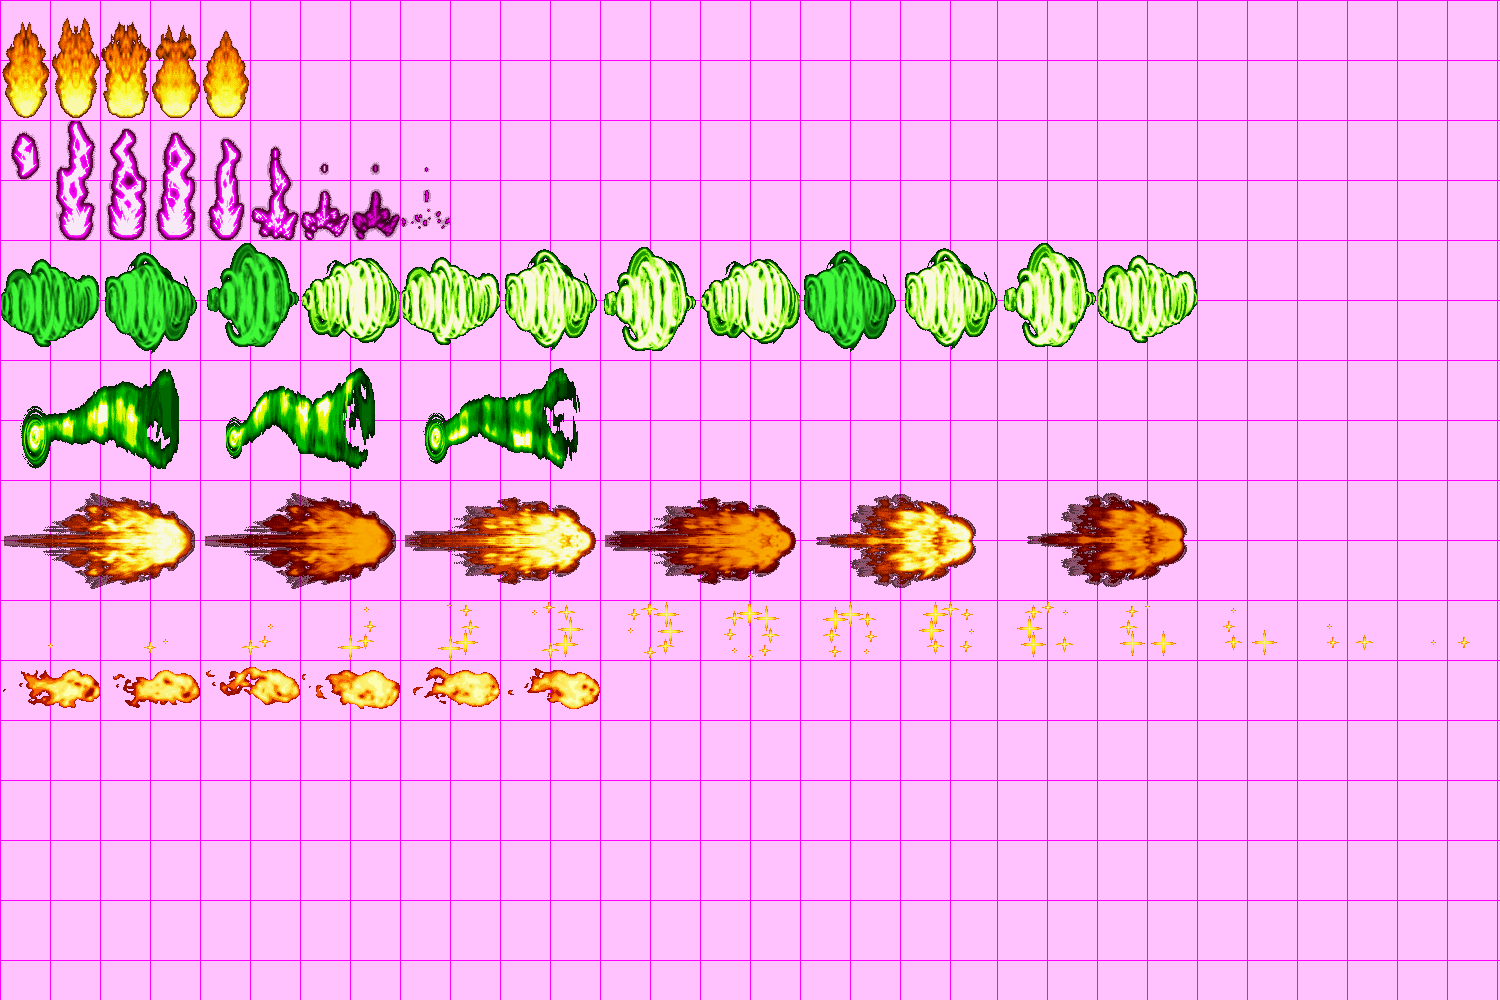
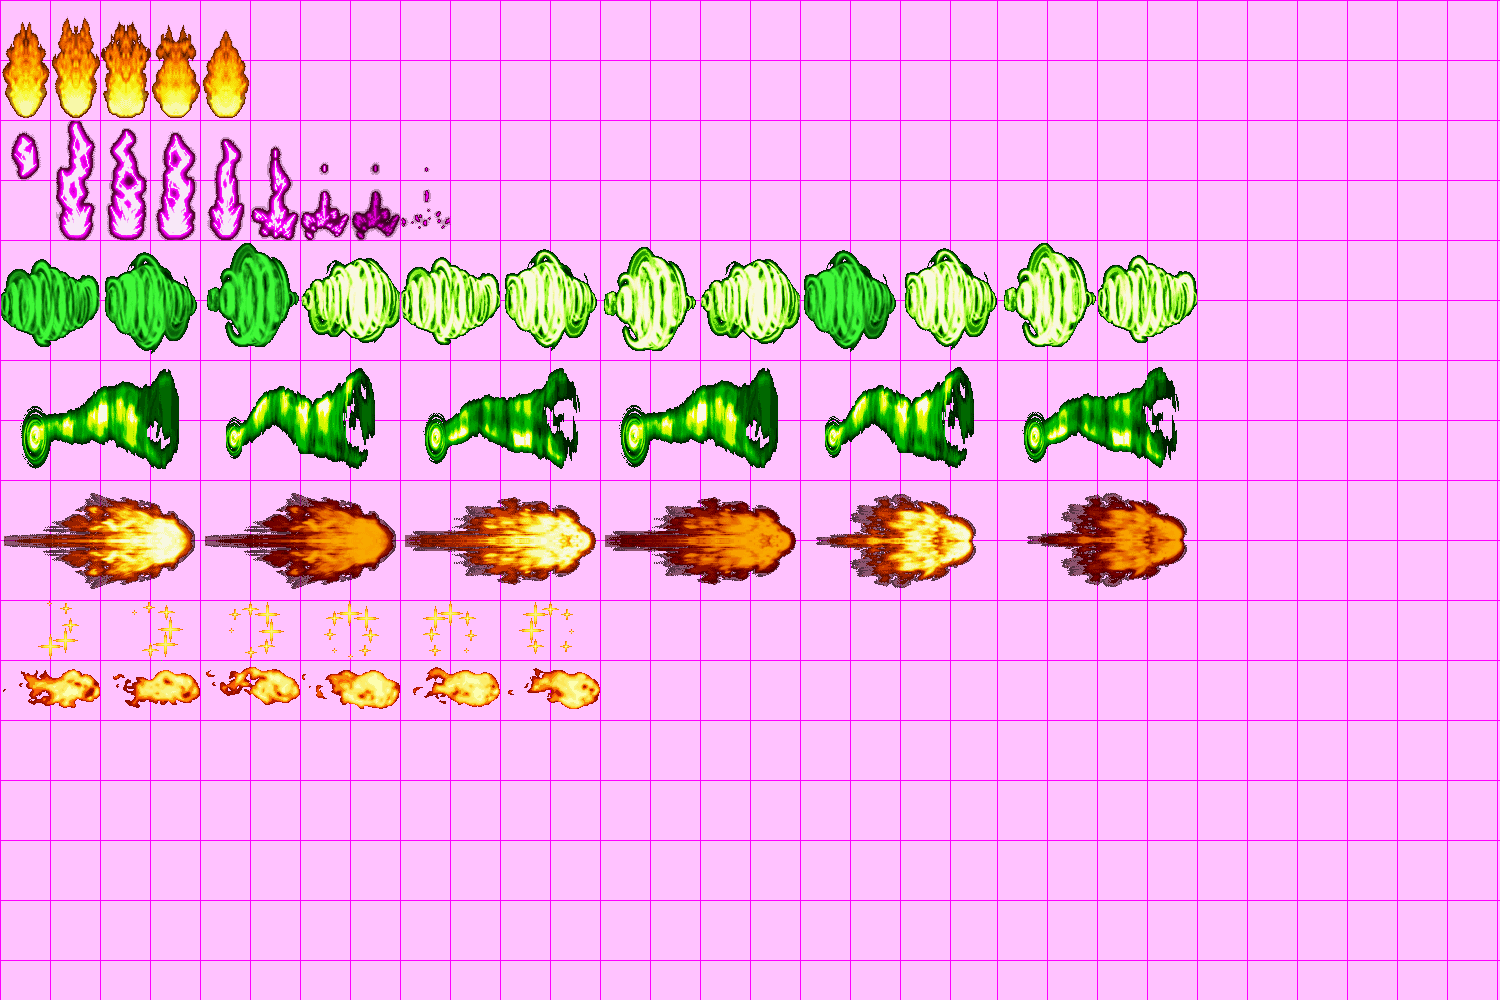
[Entity.skill] change array of some skills /n [resource.skills] skills.png

diff --git a/JAVAProjectE/src/Entity/Skills.java b/JAVAProjectE/src/Entity/Skills.java
@@ -134,7 +134,7 @@ public class Skills extends MapObject {
 			}
 			
 			else if (currentMagic == MAGIC4) {
-				sprites = new BufferedImage[3];
+				sprites = new BufferedImage[6];
 				for(int i=0;i<sprites.length;i++) {
 					sprites[i] = spritesheet.getSubimage(
 						i * width,
@@ -144,7 +144,7 @@ public class Skills extends MapObject {
 					);
 				}
 				
-				hitSprites = new BufferedImage[3];
+				hitSprites = new BufferedImage[6];
 				for(int i=0;i<sprites.length;i++) {
 					hitSprites[i] = spritesheet.getSubimage(
 						i * width,
@@ -178,7 +178,7 @@ public class Skills extends MapObject {
 			}
 			
 			else if (currentMagic == MAGIC6) {
-				sprites = new BufferedImage[15];
+				sprites = new BufferedImage[6];
 				for(int i=0;i<sprites.length;i++) {
 					sprites[i] = spritesheet.getSubimage(
 						i * width,
@@ -188,7 +188,7 @@ public class Skills extends MapObject {
 					);
 				}
 				
-				hitSprites = new BufferedImage[15];
+				hitSprites = new BufferedImage[6];
 				for(int i=0;i<sprites.length;i++) {
 					hitSprites[i] = spritesheet.getSubimage(
 						i * width,
